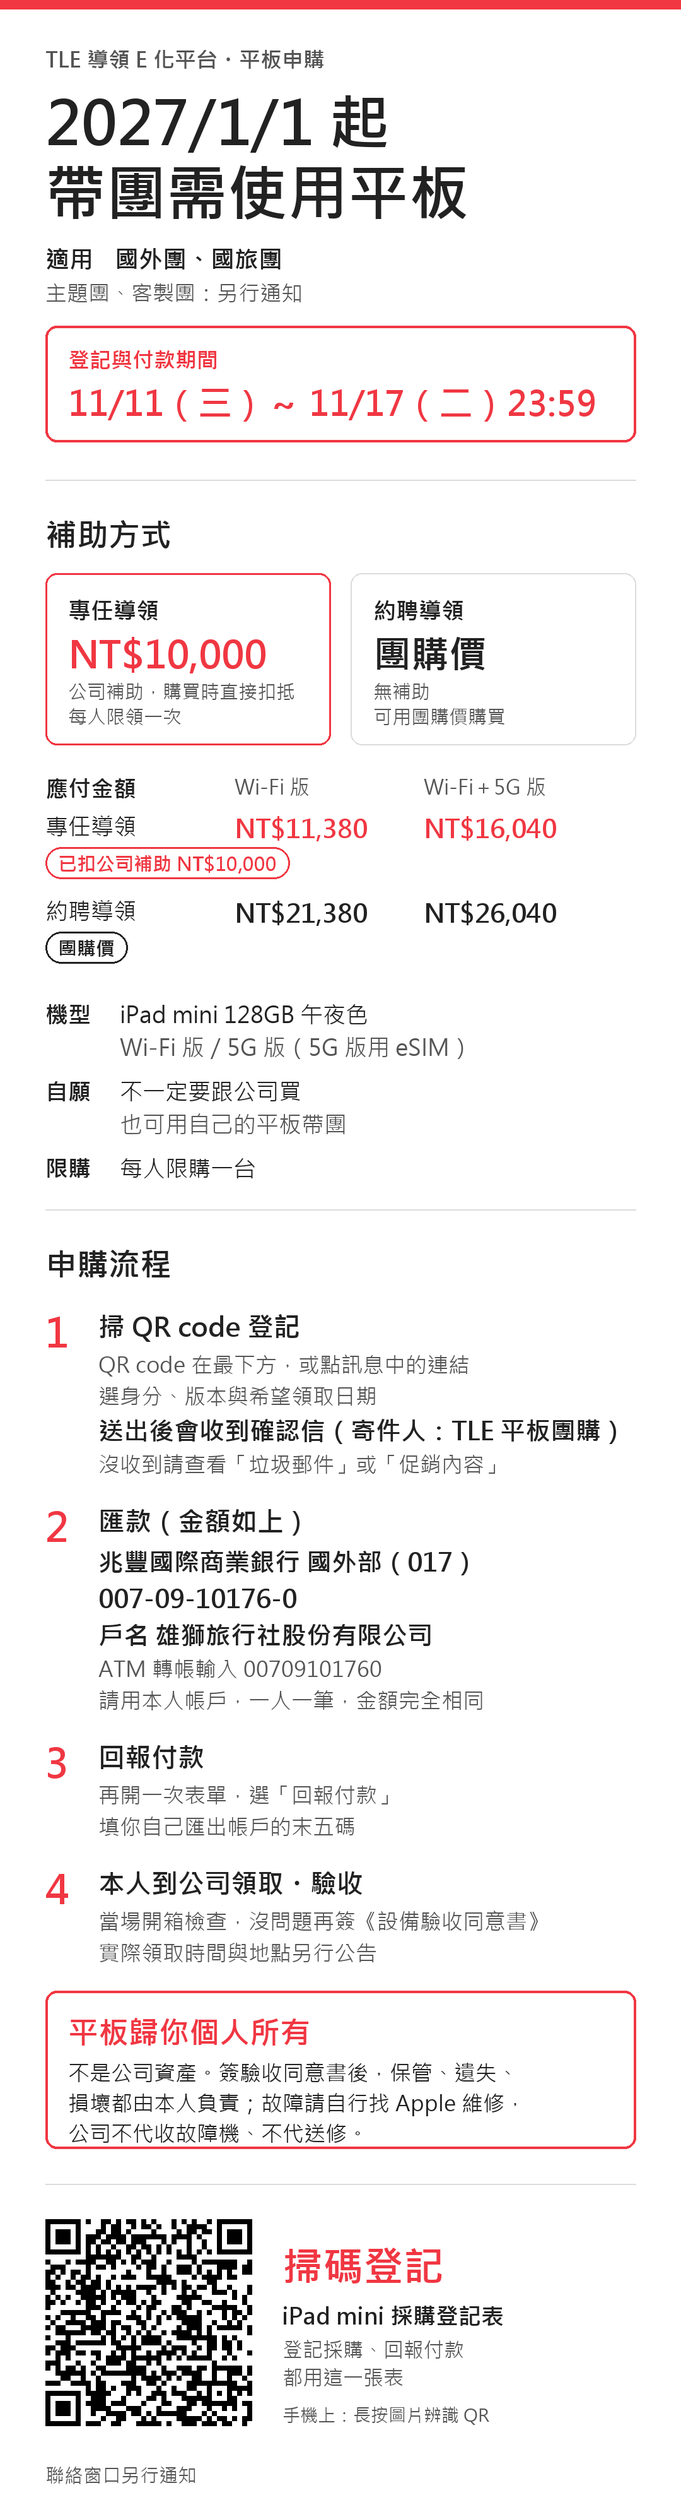
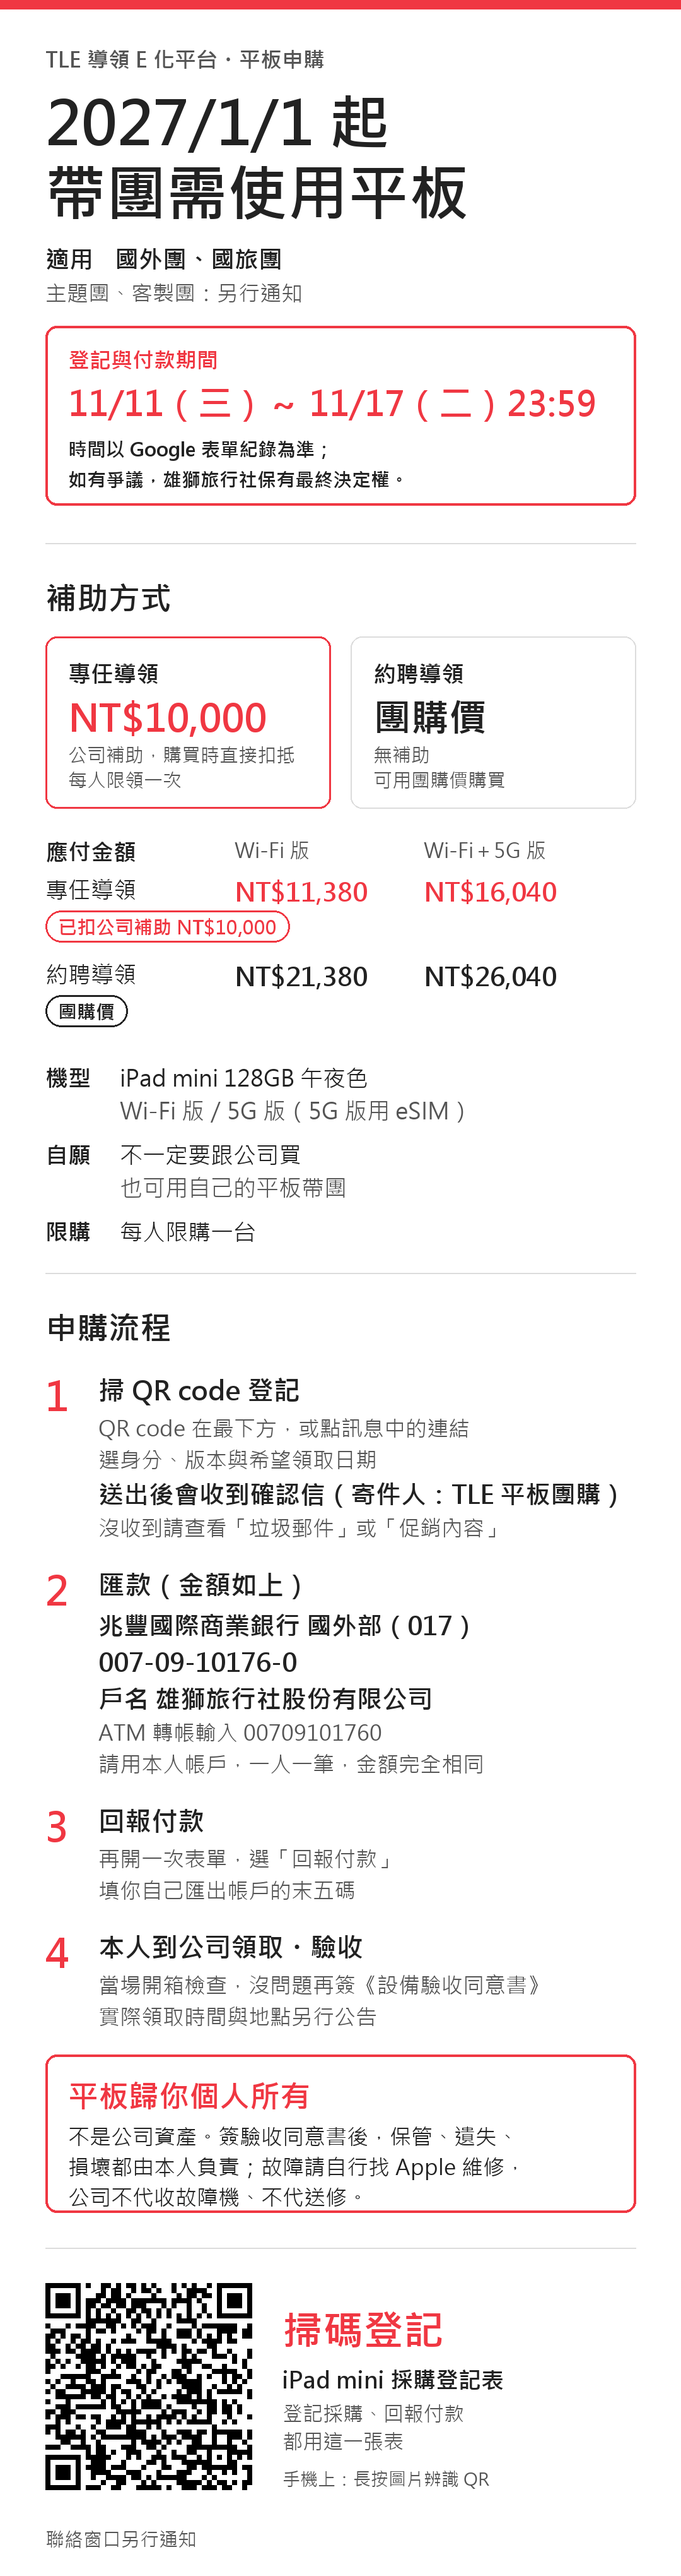
Update notice files 2026-11-12

diff --git a/index.html b/index.html
@@ -56,6 +56,7 @@ section { display: flex; flex-direction: column; gap: 14px; }
 .alert p { margin: 0; }
 .nw { white-space: nowrap; display: inline-block; }
 .alert .rule { font-weight: 700; color: var(--accent); }
+.alert .final { font-size: 14px; font-weight: 700; color: var(--fg); }
 .prices { width: 100%; border-collapse: collapse; font-variant-numeric: tabular-nums; }
 .prices th, .prices td { padding: 12px 10px; border-bottom: 1px solid var(--line); text-align: right; }
 .prices th:first-child, .prices td:first-child { text-align: left; padding-left: 0; }
@@ -100,6 +101,7 @@ section { display: flex; flex-direction: column; gap: 14px; }
       <div class="k">重要｜登記與付款期間</div>
       <div class="when"><span class="nw">2026/11/11（三）～</span> <span class="nw">11/17（二）23:59</span></div>
       <p class="rule">須於期間內「完成登記表」且「成功付款」，逾期視同放棄申購（專任導領亦不予補助）。</p>
+      <p class="final">時間以 Google 表單紀錄為準；如有爭議，雄獅旅行社保有最終決定權。</p>
     </div>
   </header>
 
@@ -124,38 +126,52 @@ section { display: flex; flex-direction: column; gap: 14px; }
     <pre class="notice" id="notice-text">【平板申購公告】2027/1/1 起帶團需使用平板
 
 各位導領夥伴好：
-配合 TLE 導領 E 化平台上線，自 2027 年 1 月 1 日起，國外團（Outbound）及國旅團帶團需使用平板；主題團、客製團另行通知。
+配合 TLE 導領 E 化平台上線，自 2027/1/1 起，國外團（Outbound）及國旅團帶團需使用平板；主題團、客製團另行通知。
 
-【重要】登記與付款期間：2026/11/11（三）～11/17（二）23:59
-須於期間內完成登記表且成功付款，逾期視同放棄申購（專任導領亦不予補助）。
+【重要】登記與付款期間
+2026/11/11（三）～ 11/17（二）23:59
+・須於期間內完成登記表且成功付款
+・逾期視同放棄申購（專任導領亦不予補助）
+・時間以 Google 表單紀錄為準；如有爭議，雄獅旅行社保有最終決定權
 
-公司統一團購 iPad mini（128GB 午夜色，Wi-Fi／Wi-Fi＋5G 版）：
-・專任導領：公司補助 NT$10,000，購買時直接扣抵，每人限領一次
-　應付 Wi-Fi 版 NT$11,380／Wi-Fi＋5G 版 NT$16,040【已扣公司補助 NT$10,000】
-・約聘導領：無補助，以【團購價】購買
-　應付 Wi-Fi 版 NT$21,380／Wi-Fi＋5G 版 NT$26,040【團購價】
-・採自願制，也可用自己的平板帶團；每人限購一台
+【應付金額】iPad mini 128GB 午夜色
+專任導領【已扣公司補助 NT$10,000】
+・Wi-Fi 版：NT$11,380
+・Wi-Fi＋5G 版：NT$16,040
+約聘導領【團購價】
+・Wi-Fi 版：NT$21,380
+・Wi-Fi＋5G 版：NT$26,040
+※ 專任補助每人限領一次；每人限購一台
+※ 採自願制，也可用自己的平板帶團
+※ 5G 版沒有 SIM 卡槽，只能用 eSIM
 
 【設備權責】
-平板是你個人的財產，不是公司資產。簽署驗收同意書後，保管、遺失、損壞都由本人負責；
-之後如有故障，請自行依 Apple 原廠保固維修管道處理，公司不代收故障機、不代送修。
+・平板是你個人的財產，不是公司資產
+・簽署《設備驗收同意書》後，保管、遺失、損壞都由本人負責
+・故障請自行依 Apple 原廠保固維修管道處理，公司不代收故障機、不代送修
 
-申購流程：
-1. 填寫登記表（選身分、版本與希望領取日期）
+【申購流程】
+① 填寫登記表
+選身分、版本與希望領取日期：
 https://docs.google.com/forms/d/e/1FAIpQLScBRnBCwPRIjfkRc_nUYg1U1YS1kxVSOd4e8PlcC0XqD_pPJw/viewform
-　送出後系統會寄「登記確認信」到你填的 email（內有應付金額與匯款資料）
-　寄件人顯示「TLE 平板團購」，主旨開頭為【iPad mini 團購】
-　沒收到請先查看「垃圾郵件」或「促銷內容」資料夾
-2. 匯款（金額如上）
-兆豐國際商業銀行 國外部（017）
-帳號 007-09-10176-0（ATM 轉帳輸入 00709101760）
-戶名 雄獅旅行社股份有限公司
-　請用本人帳戶，一人一筆，金額需與應付金額完全相同，勿與他人合併匯款
-3. 再開一次登記表，選「回報付款」，填自己匯出帳戶的末五碼
-　回報後可到公告頁輸入末五碼，確認表單已送達
+・送出後會收到「登記確認信」，寄件人「TLE 平板團購」，主旨開頭【iPad mini 團購】
+・沒收到請查看「垃圾郵件」或「促銷內容」資料夾
+
+② 匯款
+銀行：兆豐國際商業銀行 國外部（017）
+帳號：007-09-10176-0（ATM 轉帳輸入 00709101760）
+戶名：雄獅旅行社股份有限公司
+・請用本人帳戶，一人一筆，金額與應付金額完全相同
+
+③ 回報付款
+再開一次登記表，選「回報付款」，填自己匯出帳戶的末五碼。
+回報後可到公告頁輸入末五碼，確認表單已送達：
 https://hoyinzlionwork-cmd.github.io/tablet-notice/
-4. 本人到公司領取：當場開箱驗收，確認無誤後簽署《設備驗收同意書》
-　登記時選的希望領取日期僅供統計；實際領取時間、地點與聯絡窗口另行公告</pre>
+
+④ 本人到公司領取
+當場開箱驗收，確認無誤後簽署《設備驗收同意書》。
+・登記時選的希望領取日期僅供統計
+・實際領取時間、地點與聯絡窗口另行公告</pre>
     <p class="status" id="notice-status" aria-live="polite"></p>
   </section>
 
@@ -200,12 +216,12 @@ https://hoyinzlionwork-cmd.github.io/tablet-notice/
           <div class="meta">PNG・手機直式，可直接轉傳 LINE</div>
         </div>
         <div class="row">
-          <a class="btn" href="leader-flyer.png?v=202611121013" target="_blank" rel="noopener">開啟圖片</a>
-          <a class="btn" href="leader-flyer.png?v=202611121013" download="領隊平板申購說明.png">下載圖片</a>
+          <a class="btn" href="leader-flyer.png?v=202611121028" target="_blank" rel="noopener">開啟圖片</a>
+          <a class="btn" href="leader-flyer.png?v=202611121028" download="領隊平板申購說明.png">下載圖片</a>
         </div>
       </div>
     </div>
-        <img class="flyer" src="leader-flyer.png?v=202611121013" alt="領隊平板申購說明圖預覽" loading="lazy">
+        <img class="flyer" src="leader-flyer.png?v=202611121028" alt="領隊平板申購說明圖預覽" loading="lazy">
   </section>
 </div>
 
